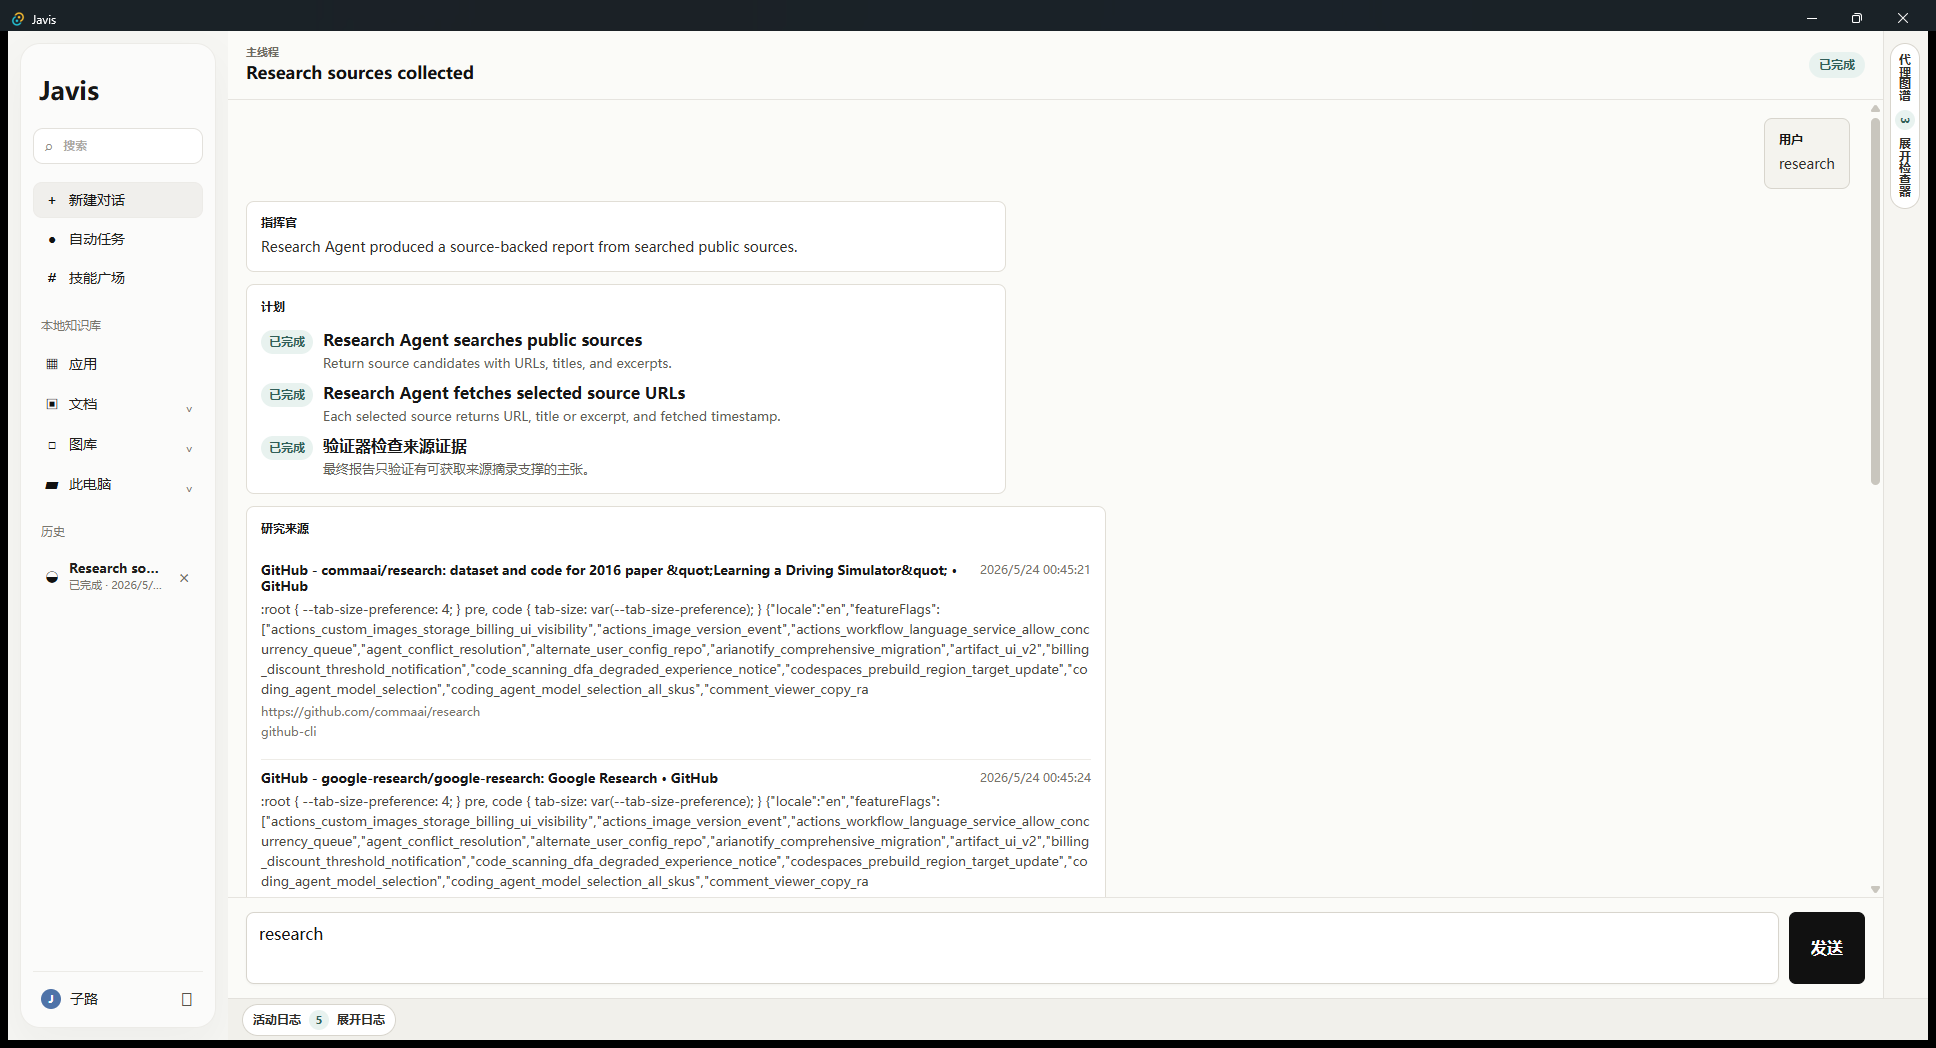
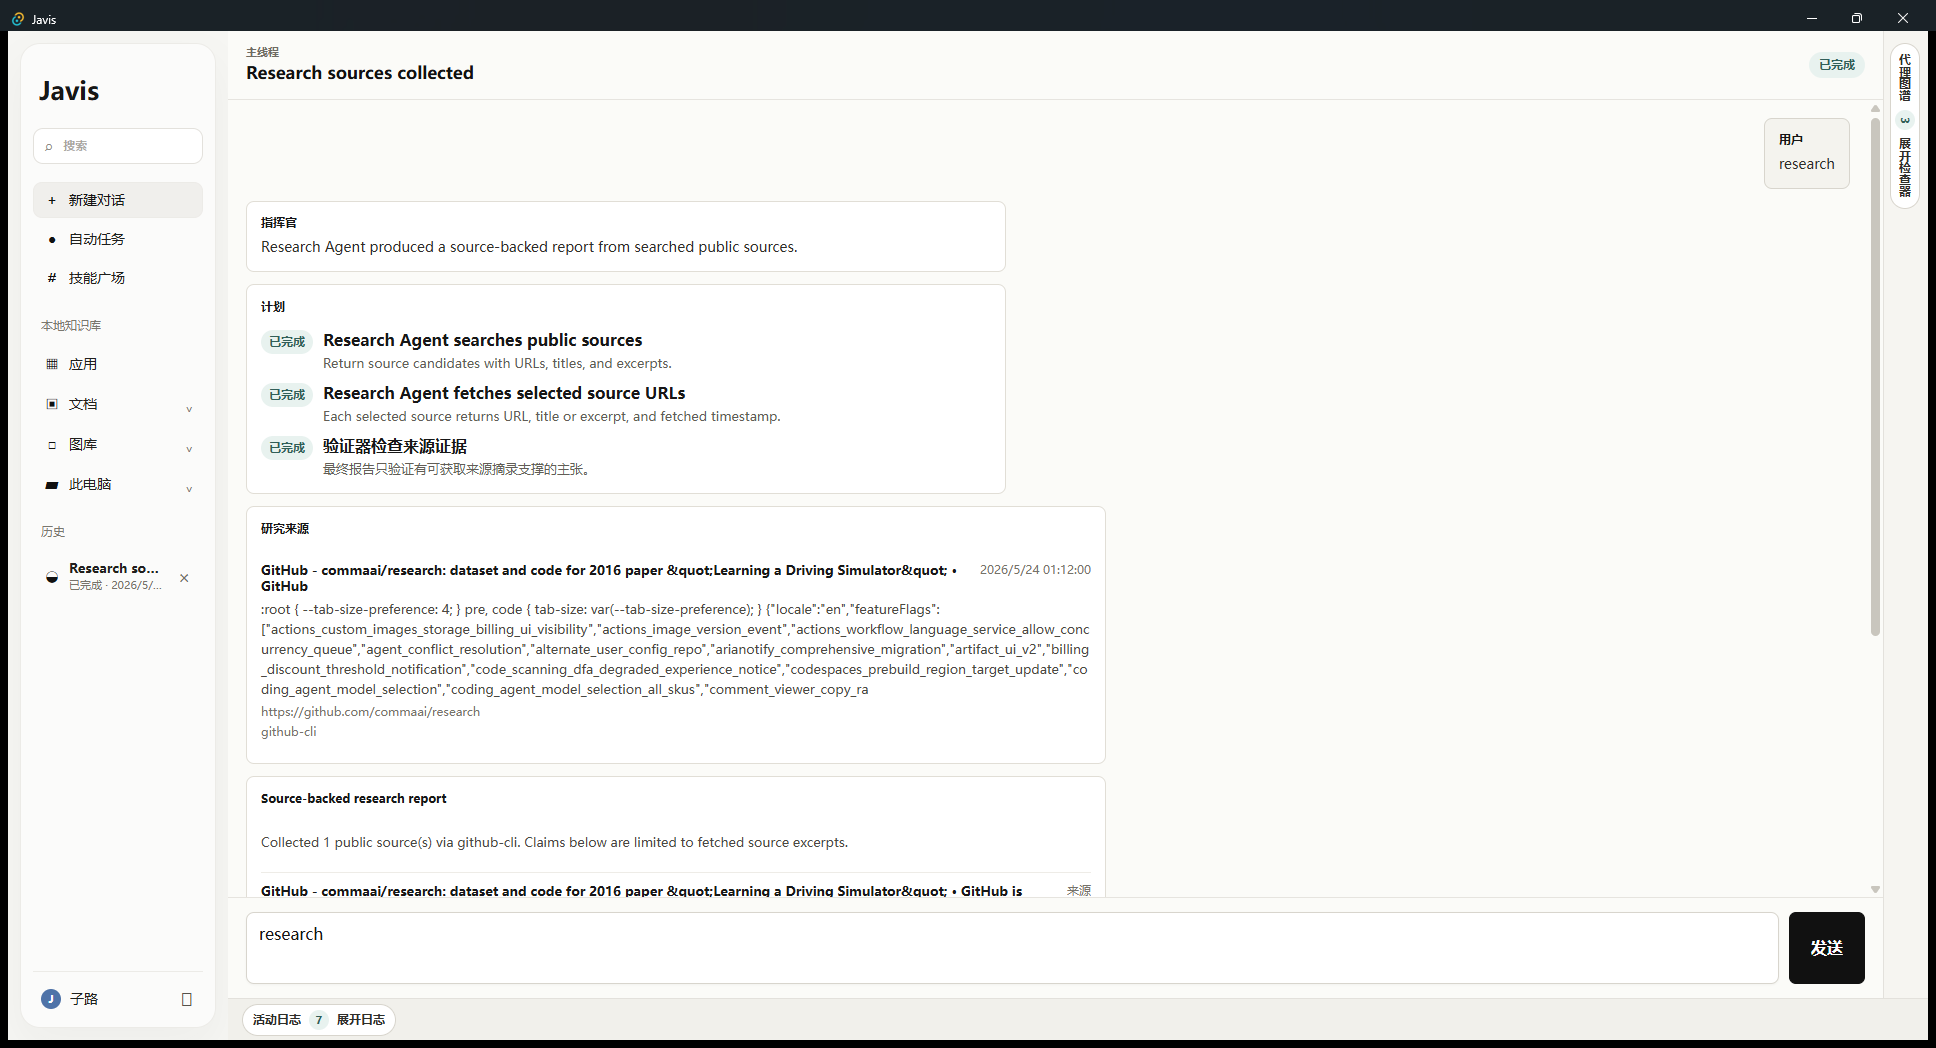
Polish research source comparison summaries

Changed region(s): [[0.124, 0.7328, 0.5579, 0.855], [0.9607, 0.458, 0.9917, 0.6107]]

diff --git a/packages/core/src/research.ts b/packages/core/src/research.ts
@@ -17,6 +17,10 @@ export function createSourceBackedReport(
   }));
 
   const missingEvidenceCount = rows.filter((row) => !row.evidence).length;
+  const comparisonNote =
+    rows.length >= 3
+      ? " The report compares the available sources for overlap and differences."
+      : "";
 
   return {
     title: "Source-backed research report",
@@ -24,7 +28,7 @@ export function createSourceBackedReport(
       rows.length > 0
         ? `Collected ${rows.length} public source(s)${
             options.providerSummary ? ` via ${options.providerSummary}` : ""
-          }. Claims below are limited to fetched source excerpts.`
+          }. Claims below are limited to fetched source excerpts.${comparisonNote}`
         : "No public source was collected, so no claims are verified.",
     rows,
     unknowns:

diff --git a/packages/core/src/index.test.ts b/packages/core/src/index.test.ts
@@ -446,6 +446,7 @@ describe("createFileScanTaskRuntime", () => {
     expect(fetchWebSource).toHaveBeenCalledTimes(3);
     expect(finalSnapshot.researchReport?.rows).toHaveLength(3);
     expect(finalSnapshot.researchReport?.summary).toContain("via test-search");
+    expect(finalSnapshot.researchReport?.summary).toContain("compares the available sources");
     expect(finalSnapshot.researchReport?.unknowns).not.toContain(
       "Automated public web search is not integrated yet; add URLs manually for broader coverage.",
     );

diff --git a/apps/desktop/src-tauri/src/lib.rs b/apps/desktop/src-tauri/src/lib.rs
@@ -1,3 +1,4 @@
+use base64::{engine::general_purpose::STANDARD, Engine};
 use serde::{Deserialize, Serialize};
 use std::{
     env, fs,
@@ -291,7 +292,12 @@ fn fetch_web_source(request: WebSourceRequest) -> Result<WebSource, String> {
         return Err("Only http and https URLs are supported.".to_string());
     }
 
-    let mut response = ureq::get(&request.url)
+    let config = ureq::Agent::config_builder()
+        .timeout_global(Some(Duration::from_secs(15)))
+        .build();
+    let agent = ureq::Agent::new_with_config(config);
+    let mut response = agent
+        .get(&request.url)
         .header("User-Agent", "Javis/0.1")
         .call()
         .map_err(|error| error.to_string())?;
@@ -537,7 +543,7 @@ fn search_with_agent_chrome(query: &str, max_results: usize) -> Result<Vec<WebSe
         .ok_or_else(|| "Agent Chrome executable was not found.".to_string())?;
     let profile = create_agent_chrome_profile_dir()?;
     let search_url = format!(
-        "https://duckduckgo.com/html/?q={}",
+        "https://www.bing.com/search?q={}",
         percent_encode_query(query)
     );
     let user_data_dir = format!("--user-data-dir={}", profile.to_string_lossy());
@@ -573,7 +579,7 @@ fn search_with_agent_chrome(query: &str, max_results: usize) -> Result<Vec<WebSe
     }
 
     let html = String::from_utf8_lossy(&output.stdout);
-    let results = parse_duckduckgo_html_results(&html, max_results);
+    let results = parse_bing_html_results(&html, max_results);
     if results.is_empty() {
         return Err("Agent Chrome returned no parseable search results.".to_string());
     }
@@ -687,32 +693,50 @@ fn run_command_with_timeout(
     }
 }
 
-fn parse_duckduckgo_html_results(html: &str, max_results: usize) -> Vec<WebSearchResult> {
+fn parse_bing_html_results(html: &str, max_results: usize) -> Vec<WebSearchResult> {
     let fetched_at = format_system_time(SystemTime::now());
     let mut results = Vec::new();
     let mut remaining = html;
 
     while results.len() < max_results {
-        let Some(link_index) = remaining.find("result__a") else {
+        let Some(block_index) = remaining.find("<li class=\"b_algo\"") else {
             break;
         };
-        remaining = &remaining[link_index..];
-        let Some(href) = extract_html_attribute(remaining, "href") else {
-            remaining = &remaining["result__a".len()..];
+        remaining = &remaining[block_index..];
+        let next_block_index = remaining[1..]
+            .find("<li class=\"b_algo\"")
+            .map(|index| index + 1)
+            .unwrap_or(remaining.len());
+        let block = &remaining[..next_block_index];
+
+        let Some(h2_index) = block.find("<h2") else {
+            remaining = &remaining[next_block_index..];
             continue;
         };
-        let Some(close_index) = remaining.find('>') else {
-            break;
+        let h2 = &block[h2_index..];
+        let Some(anchor_index) = h2.find("<a") else {
+            remaining = &remaining[next_block_index..];
+            continue;
         };
-        let after_link = &remaining[close_index + 1..];
+        let anchor = &h2[anchor_index..];
+        let Some(href) = extract_html_attribute(anchor, "href") else {
+            remaining = &remaining[next_block_index..];
+            continue;
+        };
+        let Some(close_index) = anchor.find('>') else {
+            remaining = &remaining[next_block_index..];
+            continue;
+        };
+        let after_link = &anchor[close_index + 1..];
         let Some(end_index) = after_link.find("</a>") else {
-            break;
+            remaining = &remaining[next_block_index..];
+            continue;
         };
         let title = html_to_text(&after_link[..end_index]);
-        let excerpt = extract_result_snippet(after_link)
+        let excerpt = extract_bing_snippet(block)
             .filter(|snippet| !snippet.is_empty())
             .unwrap_or_else(|| title.clone());
-        if let Some(url) = normalize_duckduckgo_url(&href) {
+        if let Some(url) = normalize_bing_url(&href) {
             results.push(WebSearchResult {
                 url,
                 title: (!title.is_empty()).then_some(title),
@@ -721,18 +745,20 @@ fn parse_duckduckgo_html_results(html: &str, max_results: usize) -> Vec<WebSearc
                 provider: Some("agent-chrome".to_string()),
             });
         }
-        remaining = &after_link[end_index..];
+        remaining = &remaining[next_block_index..];
     }
 
     results
 }
 
-fn extract_result_snippet(value: &str) -> Option<String> {
-    let index = value.find("result__snippet")?;
+fn extract_bing_snippet(value: &str) -> Option<String> {
+    let index = value.find("b_caption")?;
     let snippet = &value[index..];
-    let close_index = snippet.find('>')?;
-    let after_tag = &snippet[close_index + 1..];
-    let end_index = after_tag.find("</a>").or_else(|| after_tag.find("</div>"))?;
+    let paragraph_index = snippet.find("<p")?;
+    let paragraph = &snippet[paragraph_index..];
+    let close_index = paragraph.find('>')?;
+    let after_tag = &paragraph[close_index + 1..];
+    let end_index = after_tag.find("</p>").or_else(|| after_tag.find("</div>"))?;
     Some(html_to_text(&after_tag[..end_index]))
 }
 
@@ -744,14 +770,25 @@ fn extract_html_attribute(value: &str, attribute: &str) -> Option<String> {
     Some(html_decode(&rest[..end]))
 }
 
-fn normalize_duckduckgo_url(value: &str) -> Option<String> {
+fn normalize_bing_url(value: &str) -> Option<String> {
+    if let Some(index) = value.find("u=") {
+        let encoded = &value[index + "u=".len()..];
+        let end = encoded.find('&').unwrap_or(encoded.len());
+        let encoded = encoded[..end].trim_start_matches("a1");
+        if !encoded.is_empty() {
+            let mut padded = encoded.replace('-', "+").replace('_', "/");
+            while padded.len() % 4 != 0 {
+                padded.push('=');
+            }
+            if let Ok(decoded) = STANDARD.decode(padded) {
+                if let Ok(url) = String::from_utf8(decoded) {
+                    return Some(url);
+                }
+            }
+        }
+    }
     if value.starts_with("http://") || value.starts_with("https://") {
         return Some(value.to_string());
-    }
-    if let Some(index) = value.find("uddg=") {
-        let encoded = &value[index + "uddg=".len()..];
-        let end = encoded.find('&').unwrap_or(encoded.len());
-        return Some(percent_decode(&encoded[..end]));
     }
     None
 }
@@ -767,24 +804,6 @@ fn percent_encode_query(value: &str) -> String {
             _ => format!("%{byte:02X}").chars().collect(),
         })
         .collect()
-}
-
-fn percent_decode(value: &str) -> String {
-    let bytes = value.as_bytes();
-    let mut output = Vec::with_capacity(bytes.len());
-    let mut index = 0;
-    while index < bytes.len() {
-        if bytes[index] == b'%' && index + 2 < bytes.len() {
-            if let Ok(byte) = u8::from_str_radix(&value[index + 1..index + 3], 16) {
-                output.push(byte);
-                index += 3;
-                continue;
-            }
-        }
-        output.push(if bytes[index] == b'+' { b' ' } else { bytes[index] });
-        index += 1;
-    }
-    String::from_utf8_lossy(&output).to_string()
 }
 
 fn downloads_directory() -> Result<PathBuf, String> {
@@ -1492,15 +1511,19 @@ mod tests {
     }
 
     #[test]
-    fn parses_agent_chrome_duckduckgo_results() {
+    fn parses_agent_chrome_bing_results() {
         let html = r#"
-          <a rel="nofollow" class="result__a" href="https://example.com/alpha">Alpha &amp; Docs</a>
-          <a class="result__snippet">Useful alpha evidence.</a>
-          <a rel="nofollow" class="result__a" href="//duckduckgo.com/l/?uddg=https%3A%2F%2Fexample.com%2Fbeta&amp;rut=1">Beta</a>
-          <a class="result__snippet">Useful beta evidence.</a>
+          <li class="b_algo">
+            <h2><a href="https://example.com/alpha">Alpha &amp; Docs</a></h2>
+            <div class="b_caption"><p>Useful alpha evidence.</p></div>
+          </li>
+          <li class="b_algo">
+            <h2><a href="https://www.bing.com/ck/a?!&&p=1&u=a1aHR0cHM6Ly9leGFtcGxlLmNvbS9iZXRh&ntb=1">Beta</a></h2>
+            <div class="b_caption"><p>Useful beta evidence.</p></div>
+          </li>
         "#;
 
-        let results = parse_duckduckgo_html_results(html, 3);
+        let results = parse_bing_html_results(html, 3);
 
         assert_eq!(results.len(), 2);
         assert_eq!(results[0].url, "https://example.com/alpha");
@@ -1515,7 +1538,6 @@ mod tests {
         let encoded = percent_encode_query("opencode intellisearch/Rust");
 
         assert_eq!(encoded, "opencode+intellisearch%2FRust");
-        assert_eq!(percent_decode(&encoded), "opencode intellisearch/Rust");
     }
 
     #[test]

diff --git a/docs/PRODUCT_READINESS.md b/docs/PRODUCT_READINESS.md
@@ -18,7 +18,7 @@ history intact.
 | --- | --- | --- |
 | Desktop workbench | Installable app with stable task thread, logs, agent state, and permission UI. | MVP implemented and packaged on Windows. |
 | File and project understanding | Read project files safely, summarize relevant documents, inspect scripts, and recommend/run checks. | MVP implemented with Markdown scan and allowlisted checks. |
-| Research | Search or collect public sources, fetch evidence, compare at least three sources, cite excerpts, and label unknowns. | Partial. User-provided URL flow works; automated search has `github-cli` and Agent Chrome provider paths. Fixture QA covers success/failure states, and live `github-cli` smoke QA passes. Live Agent Chrome smoke QA is still needed. |
+| Research | Search or collect public sources, fetch evidence, compare at least three sources, cite excerpts, and label unknowns. | Partial. User-provided URL flow works; automated search has `github-cli` and Agent Chrome provider paths. Fixture QA covers success/failure states, live `github-cli` plus Agent Chrome smoke QA passes, and source-comparison summaries now call out overlap and differences. |
 | Code Agent | Inspect code, propose changes, produce diffs, apply approved edits, and run verification. | Missing. opencode/backend integration is not implemented. |
 | Persistence | Save task history, results, permission decisions as scoped records, and allow deletion. | Partial. Completed, failed, and cancelled task snapshots are stored locally with sidebar restore and delete controls; pending approvals are not persisted. |
 | Workspace management | Select and remember workspaces without relying on the launch directory. | Missing. Current workspace resolution is basic. |
@@ -30,8 +30,6 @@ history intact.
 
 Do not call Javis a complete usable product while any of these are true:
 
-- Search-backed research has fixture QA evidence and live `github-cli` smoke
-  evidence, but still needs live Agent Chrome smoke QA against public sources.
 - Code Agent / opencode integration is missing.
 - Task history persistence is limited to local completed/failed/cancelled
   snapshots and needs broader QA across app restart and future storage
@@ -46,14 +44,13 @@ Do not call Javis a complete usable product while any of these are true:
 
 The project has a verified MVP foundation. The next stage is product completion:
 
-1. Finish live Agent Chrome research smoke QA and source comparison polish.
-2. Add Code Agent with diff preview, approval, apply, and verification.
-3. Harden local persistence across app restart, storage migration, and future
+1. Add Code Agent with diff preview, approval, apply, and verification.
+2. Harden local persistence across app restart, storage migration, and future
    scoped permission records.
-4. Add workspace selection.
-5. Generalize the permission model to all write-capable tools.
-6. Expand QA from MVP scenarios to complete-product workflows.
-7. Add release signing/versioning/rollback documentation.
+3. Add workspace selection.
+4. Generalize the permission model to all write-capable tools.
+5. Expand QA from MVP scenarios to complete-product workflows.
+6. Add release signing/versioning/rollback documentation.
 
 `docs/MVP_STATUS.md` remains useful as a baseline acceptance record, but it is
 not the current finish line.

diff --git a/docs/qa/2026-05-23/notes.md b/docs/qa/2026-05-23/notes.md
@@ -43,7 +43,8 @@ Command status:
 - `pnpm --filter @javis/desktop tauri build`: pass
 - `native-qa.ps1`: pass
 - `research-search-qa.ps1`: pass
-- `research-live-smoke-qa.ps1`: pass for live `github-cli` smoke.
+- `research-live-smoke-qa.ps1`: pass for live `github-cli` and Agent Chrome
+  smoke.
 - `git diff --check` output contains only Git LF-to-CRLF working-copy warnings;
   the command exited successfully.
 
@@ -70,6 +71,8 @@ Evidence:
   the UI showed the no-results failure state.
 - `14-search-live-github-cli-smoke.png`: live `github-cli` provider smoke using
   public GitHub repository search.
+- `15-search-live-agent-chrome-smoke.png`: live `agent-chrome` provider smoke
+  using public Bing search results.
 - `qa-contact-sheet.png`: contact sheet for visual review.
 - Packaged artifacts:
   - `apps/desktop/src-tauri/target/release/bundle/msi/Javis_0.1.0_x64_en-US.msi`
@@ -94,6 +97,7 @@ Scenario status:
 | Search failed fetch | Pass | Missing searched source produced a failed search state with manual URL fallback guidance. |
 | Search no results | Pass | Empty fixture search produced `Research search returned no sources`. |
 | Live github-cli search smoke | Pass | Live `gh search repos research` path returned public sources and displayed `github-cli` provider metadata. |
+| Live Agent Chrome search smoke | Pass | Live Bing search path returned public sources and displayed `agent-chrome` provider metadata. |
 
 Manual QA verdict: pass for the documented MVP release scenarios.
 
@@ -109,10 +113,10 @@ Notes:
   repeatable without relying on live public search availability. It verifies the
   packaged release executable's fixture-driven search UI/backend flow, provider
   metadata display, source fetching, weak evidence, failed fetch, and no-results
-  states. Live `github-cli` and Agent Chrome provider smoke QA remains separate
-  product-readiness work.
-- `research-live-smoke-qa.ps1` covers live `github-cli` provider smoke only.
-  Live Agent Chrome fallback smoke still needs a stable public-provider pass.
+  states. Live `github-cli` and Agent Chrome provider smoke QA now has separate
+  passing evidence.
+- `research-live-smoke-qa.ps1` covers live `github-cli` and Agent Chrome
+  provider smoke.
 - Security/permissions review applies because PDF confirmed-write code changed.
   `SECURITY_MODEL.md` and `PERMISSIONS.md` were reviewed against the current
   implementation; Rust tests cover move success, conflict skip, missing

diff --git a/docs/QA_CHECKLIST.md b/docs/QA_CHECKLIST.md
@@ -16,7 +16,7 @@ selection, generalized confirmed-write approvals, and release rollback notes.
 - Create a screenshot folder such as `docs/qa/2026-05-23/`.
 - For repeatable search-backed research evidence, build the release app and run
   `docs/qa/2026-05-23/research-search-qa.ps1`.
-- For live `github-cli` provider smoke evidence, run
+- For live `github-cli` and Agent Chrome provider smoke evidence, run
   `docs/qa/2026-05-23/research-live-smoke-qa.ps1`.
 
 ## Required Screenshots
@@ -80,9 +80,8 @@ exist:
 - Run `research-search-qa.ps1` to capture repeatable fixture evidence for
   `github-cli`, `agent-chrome`, weak evidence, failed fetch, and no-results
   states.
-- Run `research-live-smoke-qa.ps1` to capture live `github-cli` provider smoke
-  evidence. Live Agent Chrome fallback smoke remains a separate public-provider
-  check.
+- Run `research-live-smoke-qa.ps1` to capture live `github-cli` and Agent Chrome
+  provider smoke evidence.
 - After Code Agent integration, verify Javis can use `opencode-intellisearch`
   through the OpenCode plugin path.
 - Verify the source list shows provider metadata.

diff --git a/docs/ROADMAP.md b/docs/ROADMAP.md
@@ -45,7 +45,8 @@ Status: complete for the 2026-05-23 QA pass.
   from `github-cli` or IntelliSearch to embedded Chrome.
 - Add tests and QA screenshots for `github-cli` success, IntelliSearch success
   after Code Agent integration, Chrome fallback, weak evidence, failed fetch,
-  and no-results states.
+  and no-results states. Live `github-cli` and Agent Chrome smoke evidence are
+  already captured.
 
 ## Milestone 2: Code Agent
 

diff --git a/docs/qa/README.md b/docs/qa/README.md
@@ -20,6 +20,7 @@ docs/qa/YYYY-MM-DD/
   12-search-failed-fetch-state.png
   13-search-no-results-state.png
   14-search-live-github-cli-smoke.png
+  15-search-live-agent-chrome-smoke.png
 ```
 
 Do not commit screenshots that expose private file paths, credentials, or